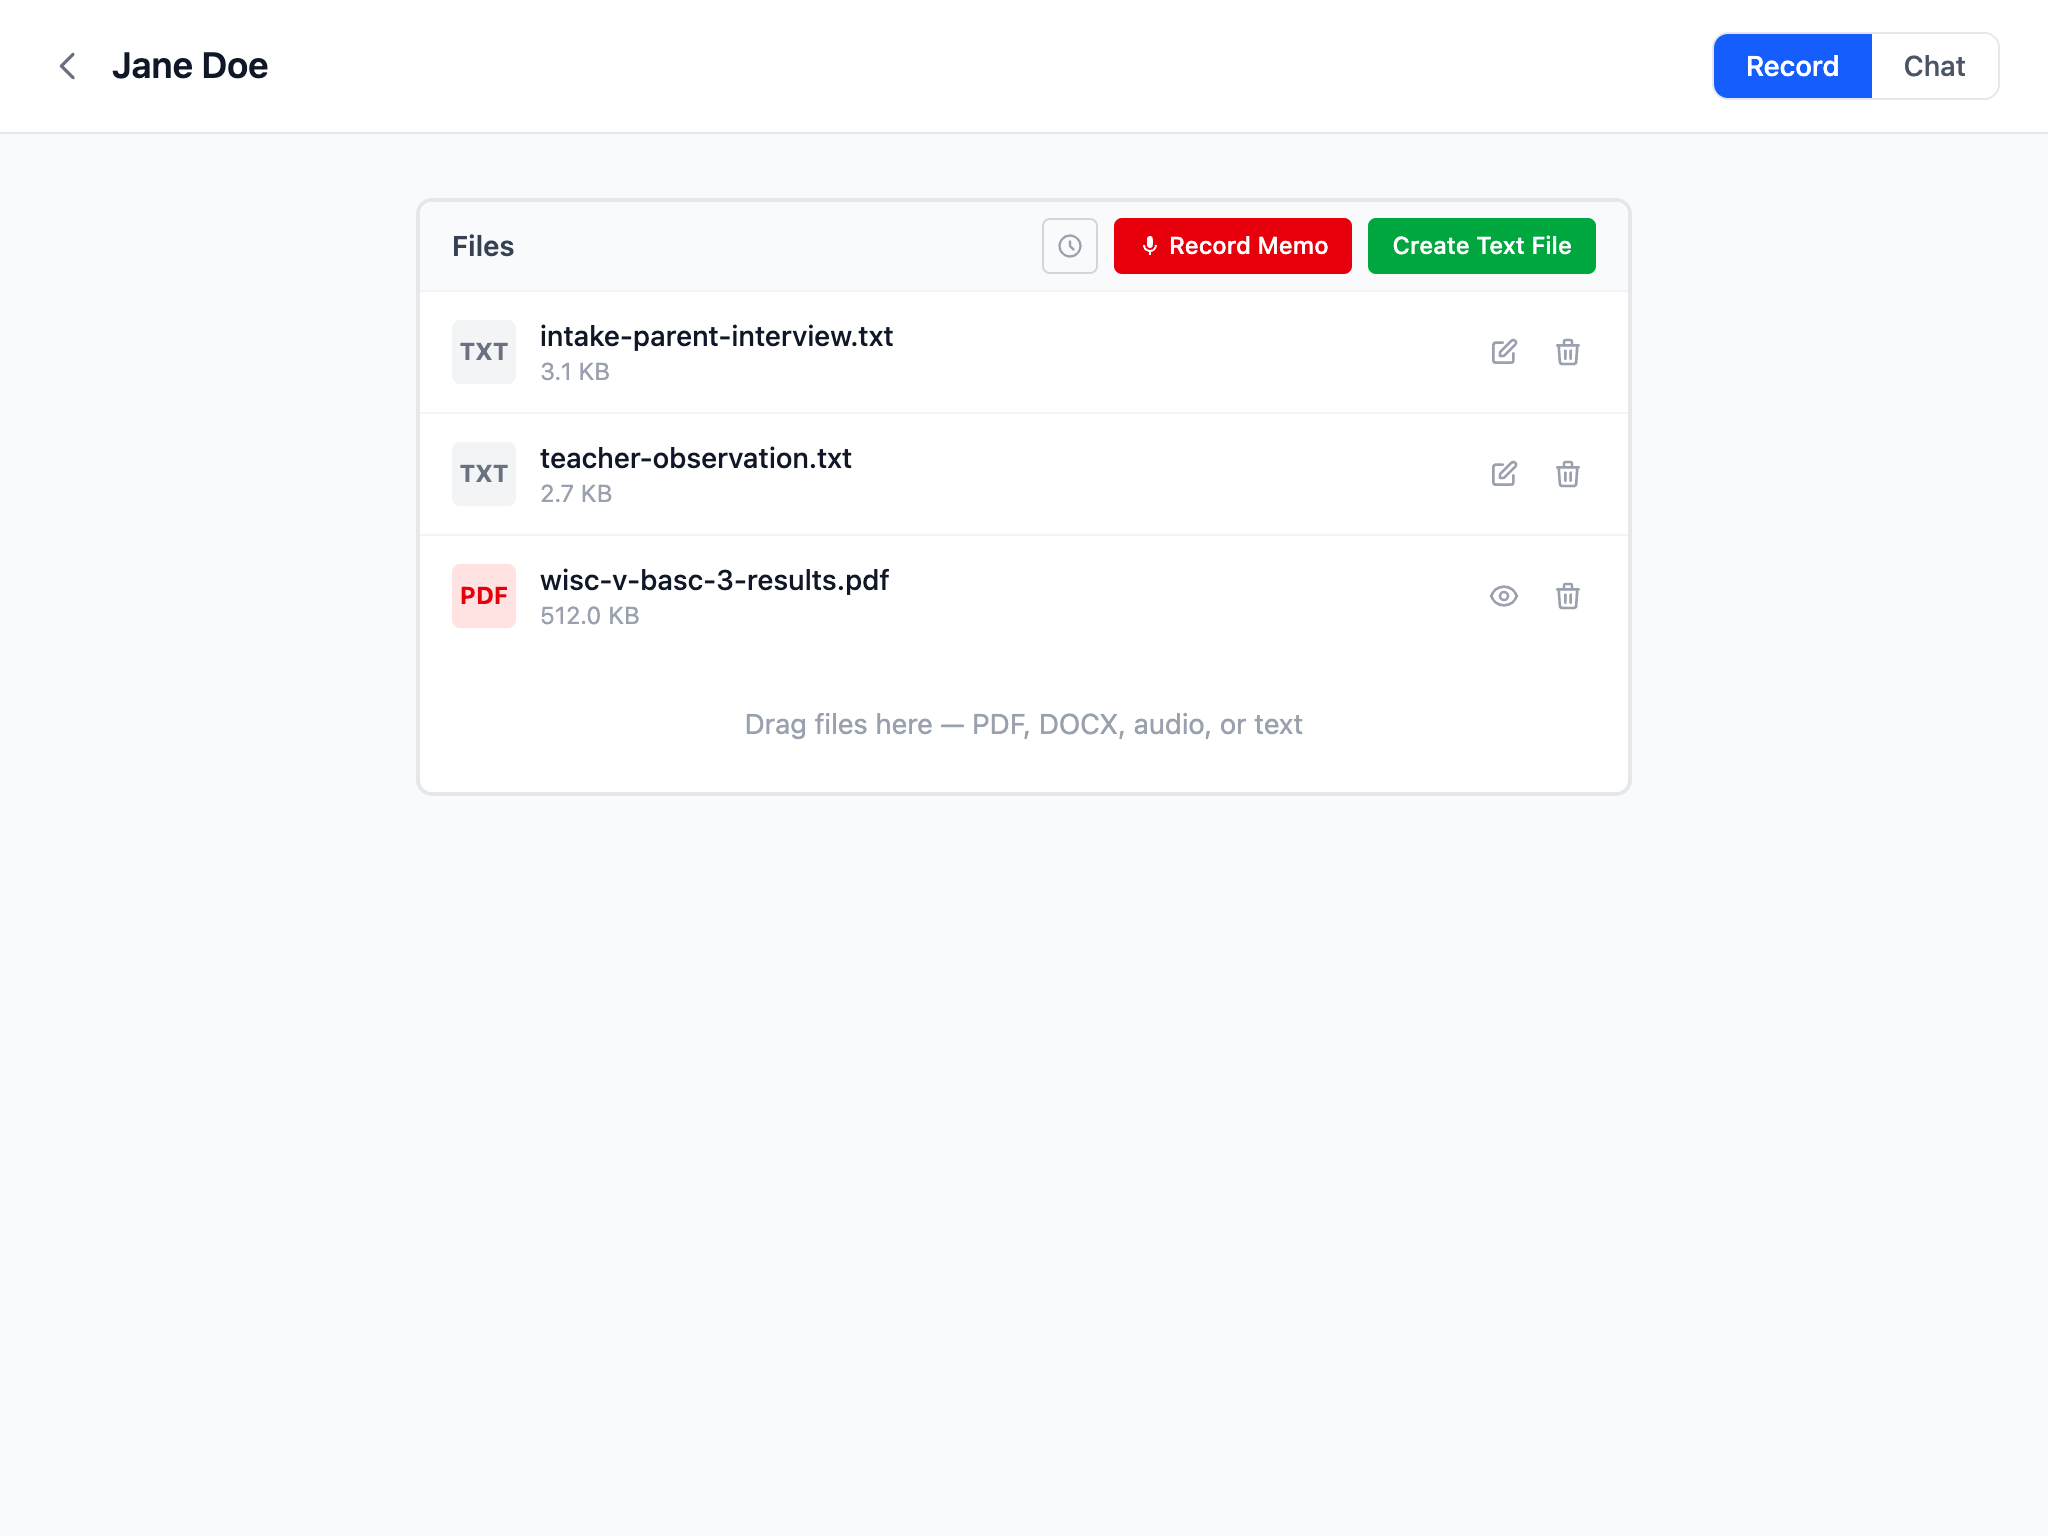
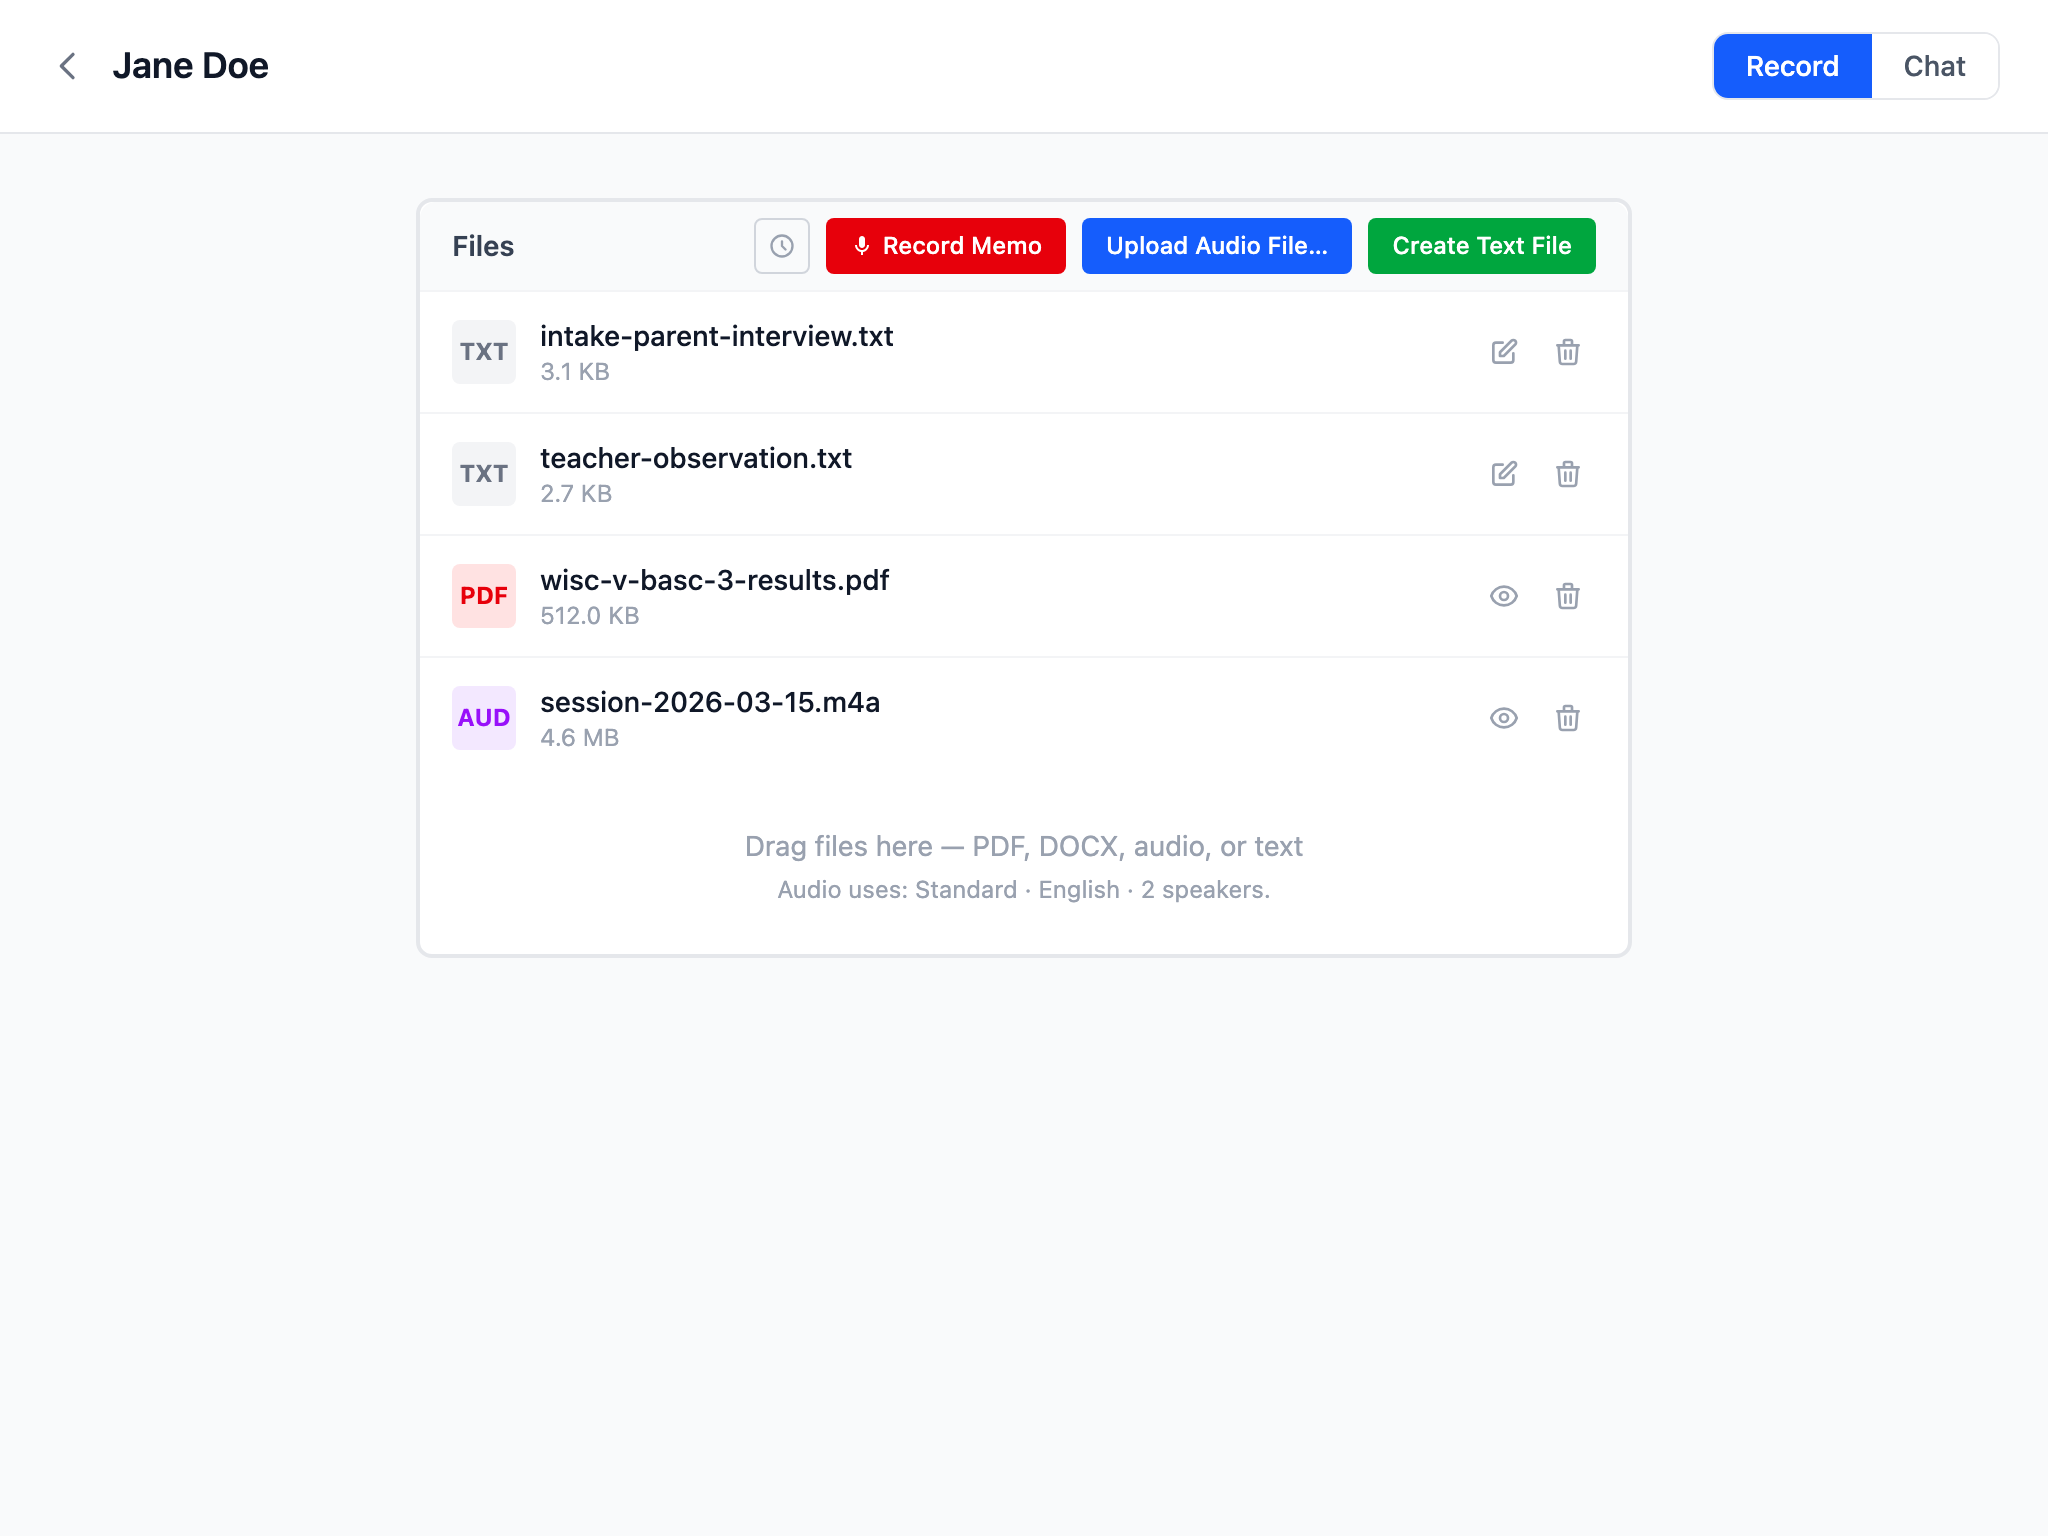
feat: add transcribe wizard + transcript editor screenshots
New "Audio Transcription" section on the landing page, between Client
Records and Voice Memos, showcasing:

- `transcribe-wizard.png` — per-file configuration modal (language,
  speakers, Medical engine, optional translation)
- `transcript-editor.png` — per-segment editor with the Speakers
  rename pane and a translated `es-US` segment

Updated existing screenshots:

- `preferences.png` — now shows the new Transcription section
  (default language, speaker count, Medical toggle, Translate toggle)
  and the cross-machine sync banner
- `client-record.png` — now shows the "Upload Audio File…" button
  next to "Create Text File"

All captures regenerated via `npm run capture` in the claria repo's
`screenshots/` directory.

diff --git a/index.html b/index.html
@@ -96,6 +96,25 @@
           </div>
         </div>
 
+        <!-- Audio Transcription -->
+        <div class="screenshot-group">
+          <div class="screenshot-group-label">Audio Transcription</div>
+          <div class="screenshot-grid two-up">
+            <figure class="screenshot-card">
+              <img src="img/transcribe-wizard.png" alt="Audio transcription wizard with language, speaker count, Medical engine, and translation options" loading="lazy"
+                   data-carousel-title="Configure transcription per file"
+                   data-carousel-desc="Drag an audio file or pick one, then choose English / Spanish / mixed-language sessions, the number of speakers, Transcribe Medical for clinical vocabulary, and optional English translation alongside the original.">
+              <figcaption>Configure transcription per file &mdash; language, speakers, Medical, translation</figcaption>
+            </figure>
+            <figure class="screenshot-card">
+              <img src="img/transcript-editor.png" alt="Per-segment transcript editor with speaker rename pane" loading="lazy"
+                   data-carousel-title="Edit transcripts segment-by-segment"
+                   data-carousel-desc="Rename speakers once and the change propagates through the whole transcript. Edit any segment&apos;s text. Every revision is preserved in S3 version history.">
+              <figcaption>Edit transcripts segment-by-segment, rename speakers in one place</figcaption>
+            </figure>
+          </div>
+        </div>
+
         <!-- Voice Memos -->
         <div class="screenshot-group">
           <div class="screenshot-group-label">Voice Memos</div>
@@ -143,9 +162,10 @@
           <div class="screenshot-group-label">Settings</div>
           <div class="screenshot-grid two-up">
             <figure class="screenshot-card">
-              <img src="img/preferences.png" alt="Preferences page with system prompt, whisper models, and model selection" loading="lazy"
-                   data-carousel-title="Customize prompts, transcription models, and AI preferences">
-              <figcaption>Customize prompts, transcription models, and AI preferences</figcaption>
+              <img src="img/preferences.png" alt="Preferences page with transcription defaults, system prompt, and chat model selection" loading="lazy"
+                   data-carousel-title="Customize transcription defaults, prompts, and AI models"
+                   data-carousel-desc="Pick default language and speaker count for audio uploads, opt into Transcribe Medical for clinical vocabulary, enable English translation, and edit system prompts. Preferences sync to your S3 bucket so the same settings follow you across machines.">
+              <figcaption>Customize transcription defaults, prompts, and AI models</figcaption>
             </figure>
           </div>
         </div>
